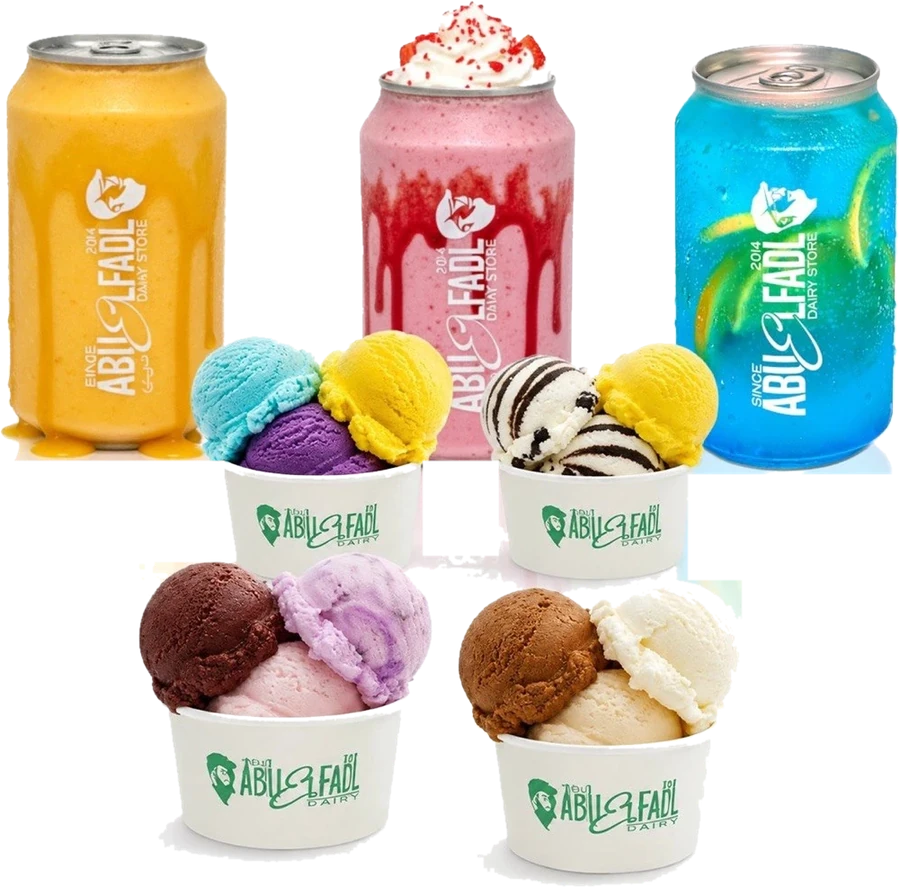
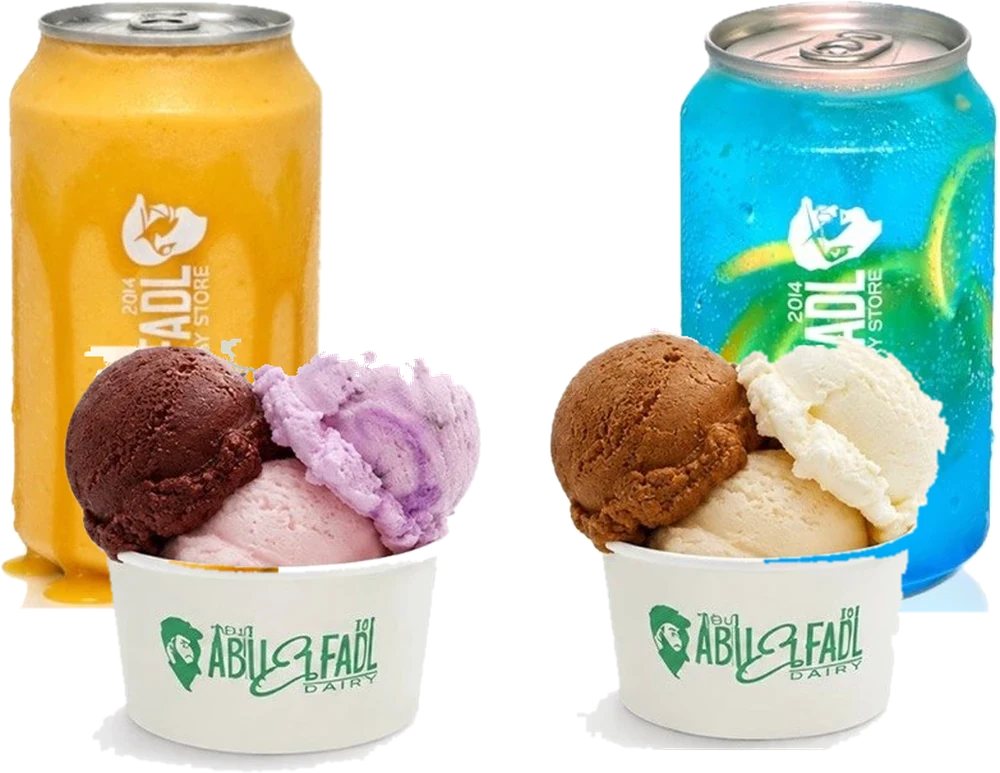
Drinks cover: two cans and two ice-cream cups instead of the full photo
Claude-Session: https://claude.ai/code/session_01HaM8F3VJv6dgB34RjCmCBJ

diff --git a/abuelfadl-store/src/features/products/CategoryCover.tsx b/abuelfadl-store/src/features/products/CategoryCover.tsx
@@ -235,13 +235,12 @@ function FreshCover() {
 }
 
 /**
- * "drinks" cover (juices, ice cream and coffee): the owner's photo of three Abu El Fadl cans — mango, strawberry
- * milkshake and blue lemonade — with four ice-cream cups in front, cut out as one piece (public/covers/drinks/group.webp)
- * without the floor reflection. It rises in with a contact shadow like the fresh cover; position is `.cvdr-group`.
+ * "drinks" cover (juices, ice cream and coffee): two Abu El Fadl cans — mango and blue lemonade — with two ice-cream
+ * cups in front, cut from the owner's photo and arranged as one piece (public/covers/drinks/group.webp). It rises in with a contact shadow like the fresh cover; position is `.cvdr-group`.
  */
 function DrinksCover() {
   return (
-    <div className="cvd" role="img" aria-label="عصائر وآيس كريم: علب عصير مانجو وميلك شيك فراولة وليمون أزرق وأكواب آيس كريم">
+    <div className="cvd" role="img" aria-label="عصائر وآيس كريم: علبتا عصير مانجو وليمون أزرق وكوبا آيس كريم">
       <div className="cvd-s" aria-hidden="true">
         <span className="cvd-p cvdr-group">
           <i className="sh" />

diff --git a/abuelfadl-store/src/styles/24-category-covers.css b/abuelfadl-store/src/styles/24-category-covers.css
@@ -110,5 +110,5 @@
 /* fresh bakery cover (FreshCover): five pastries as one group (they sit close together in the photo) */
 .cvfr-group{left:6.00%;top:30.00%;width:88.00%;z-index:1;--dl:0.1s}
 
-/* drinks cover (DrinksCover): three cans and four ice-cream cups as one group */
-.cvdr-group{left:22.00%;top:5.00%;width:56.00%;z-index:1;--dl:0.1s}
+/* drinks cover (DrinksCover): two cans and two ice-cream cups as one group */
+.cvdr-group{left:15.60%;top:7.00%;width:68.80%;z-index:1;--dl:0.1s}
